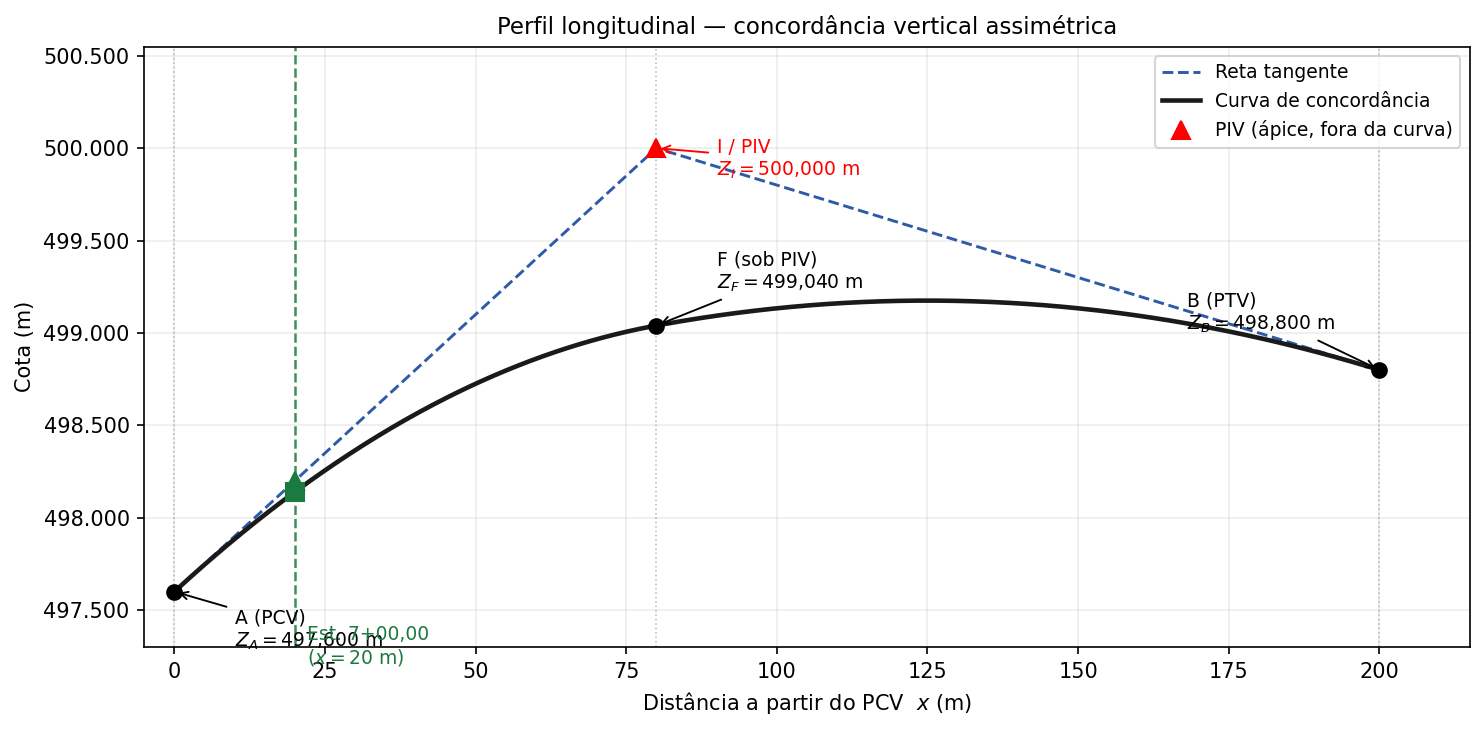
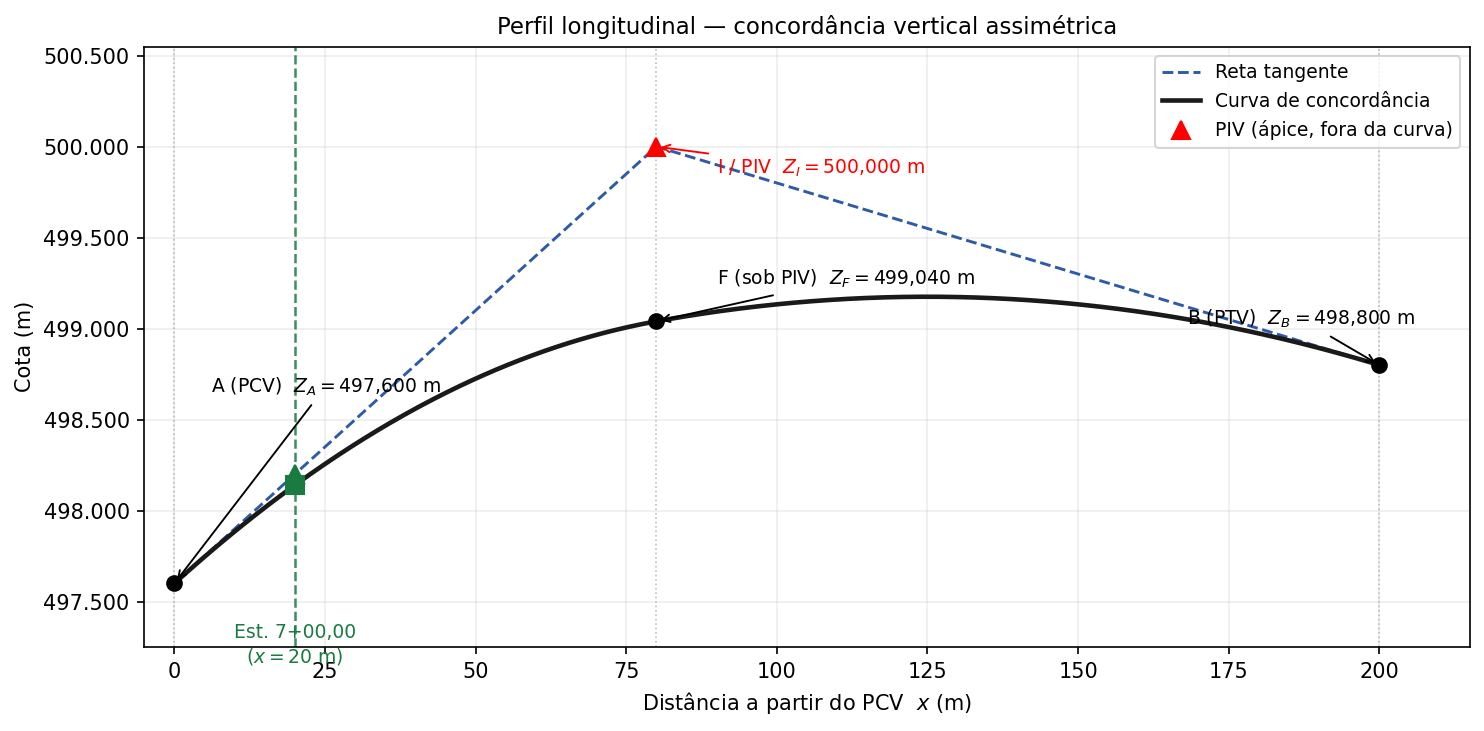
Corrige Fig_05a (anotações sem sobreposição) e remove numeração
Fig_05a: anotação A(PCV) reposicionada acima (y≈498,65) com seta
apontando para baixo; Est.7+00,00 movida para o espaço abaixo da
curva — sem sobreposição de textos.
Captions: \caption{} → \caption*{} nas duas novas figuras, mantendo
o padrão do documento (Fig_03 e Fig_04 já usavam \caption*{}).

diff --git a/z_docs/08_CV_PCV-PTV_2025_convertido.tex b/z_docs/08_CV_PCV-PTV_2025_convertido.tex
@@ -1224,7 +1224,7 @@ A sequência de cálculo para cada estaca é:
 \begin{figure}[H]
 \centering
 \includegraphics[width=\linewidth]{figuras/Fig_05a_perfil.png}
-\caption{Perfil longitudinal completo da concordância vertical assimétrica do exemplo
+\caption*{Perfil longitudinal completo da concordância vertical assimétrica do exemplo
 ($Z_I = 500{,}000$ m, $i_1 = {+}3\%$, $i_2 = {-}1\%$, $l_1 = 80$ m, $l_2 = 120$ m).
 Os marcadores verdes indicam a posição da estaca 7+00,00 ($x = 20$ m).}
 \end{figure}
@@ -1232,7 +1232,7 @@ Os marcadores verdes indicam a posição da estaca 7+00,00 ($x = 20$ m).}
 \begin{figure}[H]
 \centering
 \includegraphics[width=0.80\linewidth]{figuras/Fig_05b_detalhe.png}
-\caption{Detalhe da estaca 7+00,00 ($x = 20$ m): a reta tangente passa em
+\caption*{Detalhe da estaca 7+00,00 ($x = 20$ m): a reta tangente passa em
 $Z_{\mathrm{tang}}(20) = 498{,}200$ m e a curva parabólica em $Z(20) = 498{,}140$ m;
 a diferença é a flecha local $f(20) = 0{,}060$ m.}
 \end{figure}